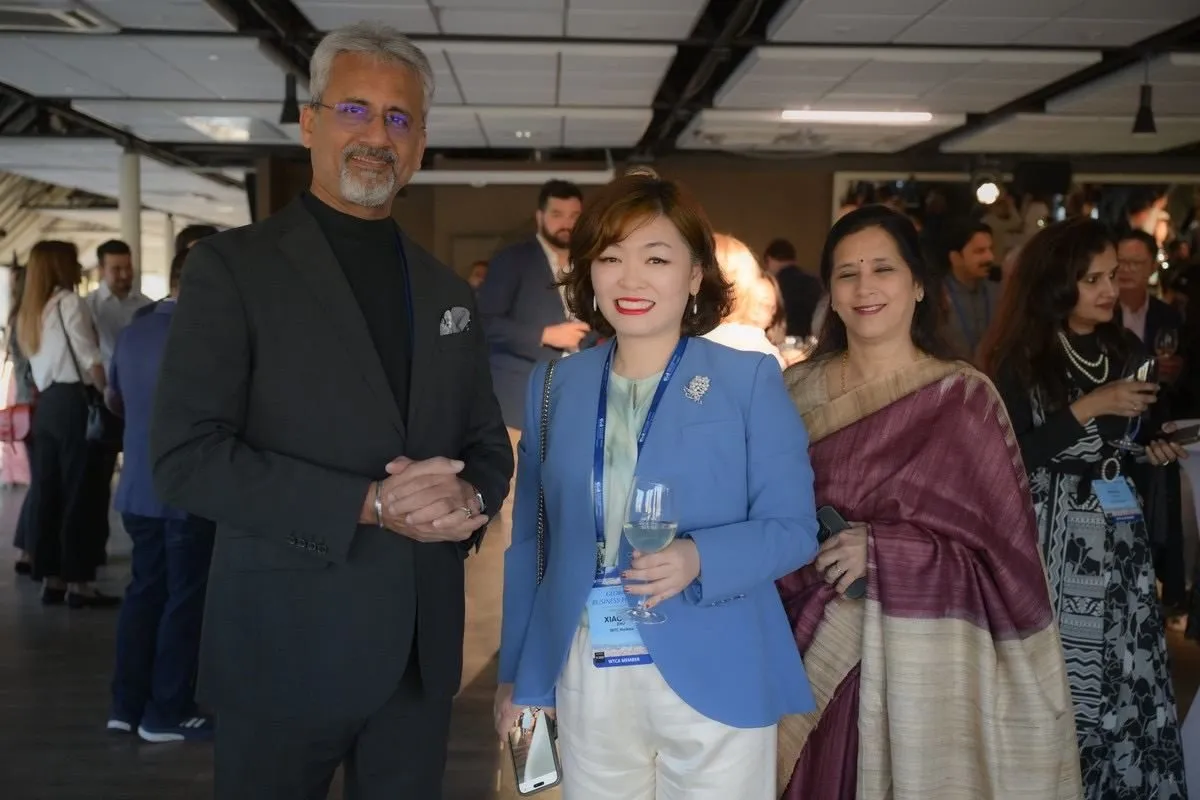
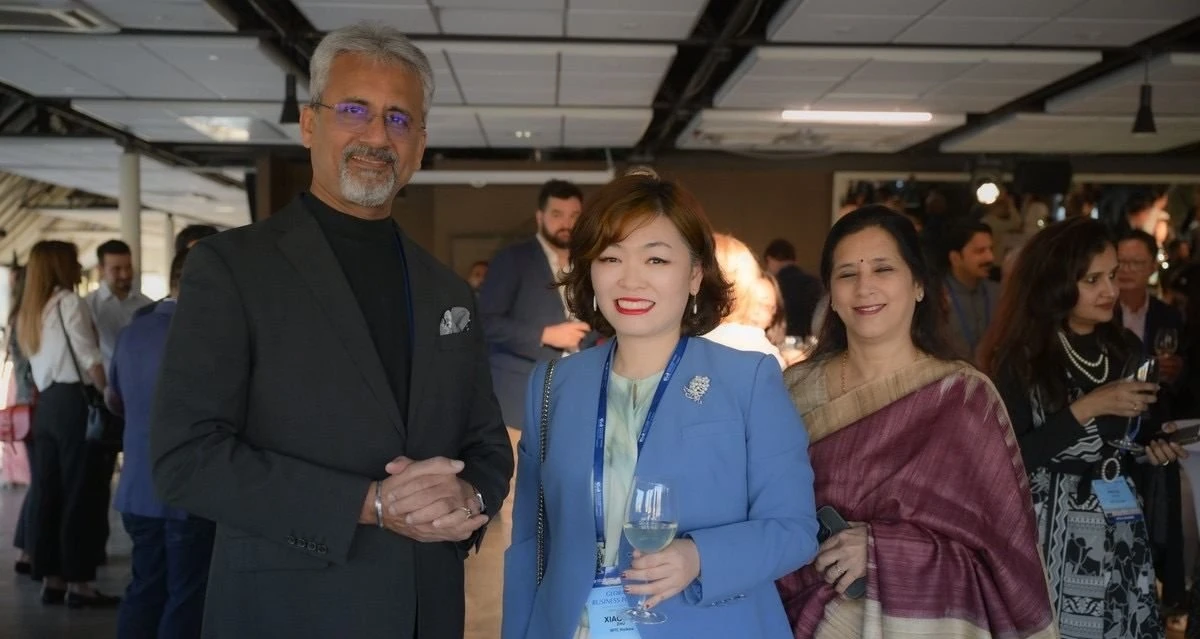
sync: 按本地状态同步案例样式与页面改动（图片尺寸/字间距调整、club-apply 遗留文件）

diff --git a/cases/china-security-hardware-globalization/china-security-hardware-globalization.html b/cases/china-security-hardware-globalization/china-security-hardware-globalization.html
@@ -46,7 +46,7 @@
 
 <div id="site-topbar">
   <a class="topbar-brand" href="https://wtcasg.org/">WTC Singapore</a>
-  <a class="topbar-back" href="https://wtcasg.org/">← 返回官网首页</a>
+  <a class="topbar-back" href="../case-list.html">← 返回案例列表</a>
   <a class="topbar-lang" href="china-security-hardware-globalization-en.html">EN</a>
 </div>
 

diff --git a/cases/automotive-parts/index.html b/cases/automotive-parts/index.html
@@ -42,7 +42,7 @@
 
 <div id="site-topbar">
   <a class="topbar-brand" href="../../index.html">WTC Singapore</a>
-  <a class="topbar-back" href="../../index.html">← 返回官网首页</a>
+  <a class="topbar-back" href="../case-list.html">← 返回案例列表</a>
   <a class="topbar-lang" href="en.html">EN</a>
 </div>
 

diff --git a/cases/hardtech-semiconductor/index.html b/cases/hardtech-semiconductor/index.html
@@ -77,7 +77,7 @@
 
 <div id="site-topbar">
   <a class="topbar-brand" href="../../index.html">WTC Singapore</a>
-  <a class="topbar-back" href="../../index.html">← 返回官网首页</a>
+  <a class="topbar-back" href="../case-list.html">← 返回案例列表</a>
   <a class="topbar-lang" href="en.html">EN</a>
 </div>
 

diff --git a/cases/industrial-forklift/index.html b/cases/industrial-forklift/index.html
@@ -43,7 +43,7 @@
 
 <div id="site-topbar">
   <a class="topbar-brand" href="../../index.html">WTC Singapore</a>
-  <a class="topbar-back" href="../../index.html">← 返回官网首页</a>
+  <a class="topbar-back" href="../case-list.html">← 返回案例列表</a>
   <a class="topbar-lang" href="en.html">EN</a>
 </div>
 

diff --git a/cases/new-energy-storage/index.html b/cases/new-energy-storage/index.html
@@ -42,7 +42,7 @@
 
 <div id="site-topbar">
   <a class="topbar-brand" href="../../index.html">WTC Singapore</a>
-  <a class="topbar-back" href="../../index.html">← 返回官网首页</a>
+  <a class="topbar-back" href="../case-list.html">← 返回案例列表</a>
   <a class="topbar-lang" href="en.html">EN</a>
 </div>
 

diff --git a/club-apply/submit.php b/club-apply/submit.php
@@ -1,0 +1,113 @@
+<?php
+/**
+ * WTC ONE Club 申请表单接收端
+ * 部署：放到 Exabytes 主机的 club-apply/ 目录下，与 club-apply.html 同级。
+ * 流程：前端 POST 表单字段 → 本脚本转发到飞书群机器人 Webhook → 返回 JSON。
+ *
+ * 你只需改下面这一行，把飞书群机器人的 Webhook 地址填进去即可。
+ * 在拿到 Webhook 之前，脚本会照常记录申请（写本地日志），只是不发飞书。
+ */
+$feishu_webhook = "https://open.feishu.cn/open-apis/bot/v2/hook/a40d3082-4062-4608-b5b7-9039fa5ec78f"; // ← 飞书群机器人 Webhook 地址
+
+header("Content-Type: application/json; charset=utf-8");
+header("Access-Control-Allow-Origin: *");
+header("Access-Control-Allow-Methods: POST, OPTIONS");
+header("Access-Control-Allow-Headers: Content-Type");
+
+// 预检请求直接放行
+if ($_SERVER["REQUEST_METHOD"] === "OPTIONS") {
+    http_response_code(204);
+    exit;
+}
+
+if ($_SERVER["REQUEST_METHOD"] !== "POST") {
+    http_response_code(405);
+    echo json_encode(["ok" => false, "error" => "method_not_allowed"]);
+    exit;
+}
+
+// 取字段（兼容 form-urlencoded 与 JSON 两种提交）
+$raw = file_get_contents("php://input");
+$ct  = isset($_SERVER["CONTENT_TYPE"]) ? $_SERVER["CONTENT_TYPE"] : "";
+if (stripos($ct, "application/json") !== false) {
+    $post = json_decode($raw, true) ?: [];
+} else {
+    $post = $_POST;
+    if (empty($post) && !empty($raw)) {
+        parse_str($raw, $post);
+    }
+}
+
+function clean($v, $max = 2000) {
+    if (is_array($v)) {
+        return array_map(function ($x) use ($max) { return mb_substr(trim($x), 0, $max); }, $v);
+    }
+    return mb_substr(trim((string) $v), 0, $max);
+}
+
+$name      = clean($post["name"] ?? "");
+$company   = clean($post["company"] ?? "");
+$title     = clean($post["title"] ?? "");
+$email     = clean($post["email"] ?? "");
+$phone     = clean($post["phone"] ?? "");
+$referrer  = clean($post["referrer"] ?? "");
+$interests = clean($post["interests"] ?? []);
+if (!is_array($interests)) { $interests = $interests ? [$interests] : []; }
+$goals     = clean($post["goals"] ?? "");
+$submitted = date("Y-m-d H:i:s");
+$source    = clean($post["source_page"] ?? "club-apply");
+
+// 基本校验
+if ($name === "" || $email === "" || $phone === "") {
+    http_response_code(422);
+    echo json_encode(["ok" => false, "error" => "missing_required"]);
+    exit;
+}
+
+$interests_str = empty($interests) ? "（未选择）" : implode("、", $interests);
+
+// 组装飞书文本消息
+$text = "【WTC ONE Club 新申请】\n"
+      . "姓名：$name\n"
+      . "公司：$company\n"
+      . "职位：$title\n"
+      . "邮箱：$email\n"
+      . "电话：$phone\n"
+      . "推荐人/渠道：$referrer\n"
+      . "感兴趣板块：$interests_str\n"
+      . "目标简述：$goals\n"
+      . "来源页：$source\n"
+      . "提交时间：$submitted";
+
+// 写本地日志（即使飞书没配也留底）
+$log_line = "[" . $submitted . "] " . $name . " | " . $email . " | " . $phone . "\n";
+@file_put_contents(__DIR__ . "/applications.log", $log_line, FILE_APPEND);
+
+$feishu_sent = false;
+if ($feishu_webhook !== "" && strpos($feishu_webhook, "FEISHU_WEBHOOK_HERE") === false) {
+    $payload = json_encode([
+        "msg_type" => "text",
+        "content"  => ["text" => $text]
+    ]);
+    $ch = curl_init($feishu_webhook);
+    curl_setopt_array($ch, [
+        CURLOPT_POST           => true,
+        CURLOPT_RETURNTRANSFER => true,
+        CURLOPT_TIMEOUT        => 8,
+        CURLOPT_HTTPHEADER     => ["Content-Type: application/json"],
+        CURLOPT_POSTFIELDS     => $payload
+    ]);
+    $resp = curl_exec($ch);
+    $err  = curl_error($ch);
+    curl_close($ch);
+    if ($resp !== false && strpos($resp, '"code":0') !== false) {
+        $feishu_sent = true;
+    }
+}
+
+echo json_encode([
+    "ok"           => true,
+    "feishu_sent"  => $feishu_sent,
+    "message"      => $feishu_sent ? "received_and_notified" : "received_logged_only"
+]);
+exit;
